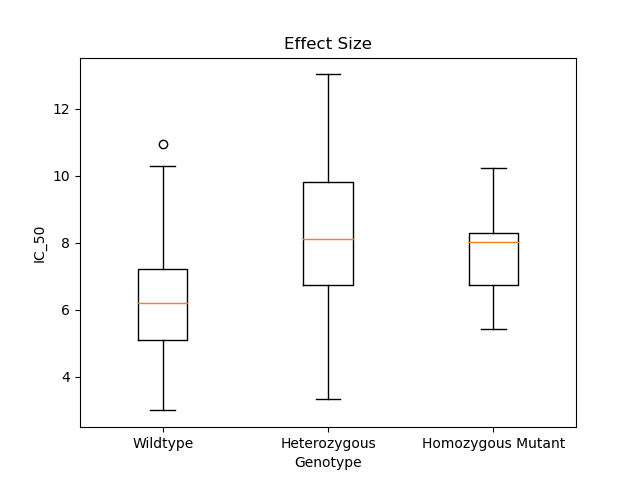
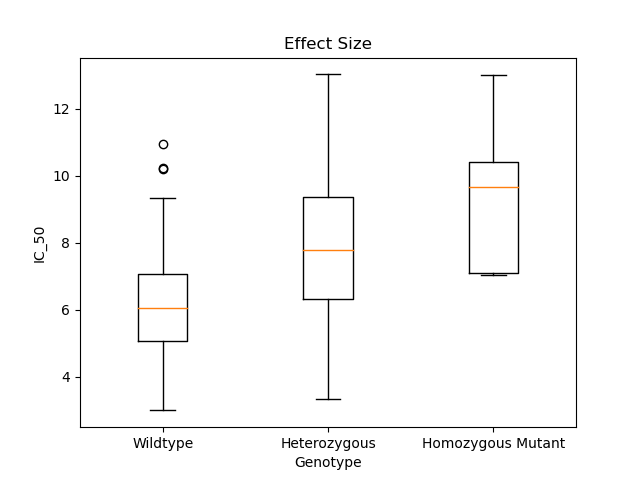
Corrections to homework

diff --git a/week6/plotting.py b/week6/plotting.py
@@ -40,13 +40,30 @@ plt.close(fig)
 cb_gwas = pd.read_csv('cb_gwas.assoc.linear', delim_whitespace=True)
 gs_gwas = pd.read_csv('gs_gwas.assoc.linear', delim_whitespace=True)
 
-
-
 cb_p = cb_gwas["P"]
 gs_p = gs_gwas["P"]
-length = len(cb_p)
-cb_10p = -(np.log10(cb_p))
-gs_10p = -(np.log10(gs_p))
+
+
+cb_p_true = []
+cb_test = cb_gwas["TEST"]
+for line in range(len(cb_test)):
+    site = cb_test[line] 
+    if site == "ADD":
+        cb_p_true.append(float(cb_p[line]))
+
+
+gs_p_true = []
+gs_test = gs_gwas["TEST"]
+for line in range(len(gs_test)):
+    site = gs_test[line] 
+    if site == "ADD":
+        gs_p_true.append(float(gs_p[line]))
+
+
+
+length = len(cb_p_true)
+cb_10p = -(np.log10(cb_p_true))
+gs_10p = -(np.log10(gs_p_true))
 
 color_cb = []
 color_gs = []
@@ -96,14 +113,16 @@ plt.show()
 fig.savefig( "manhattan.png" )
 plt.close(fig)
 
-highest_snp = (min(cb_p))
+highest_snp = (min(cb_p_true))
+#print(highest_snp)
+
 
 index = 0
-for value in cb_p:
+for value in cb_p_true:
     if value == 8.199e-12:
         print(index)
     index += 1
-#2028444
+#184404
 #print(cb_gwas.iloc[[2028444]])
 #snp of interest is rs10876043
 
@@ -131,14 +150,30 @@ snp_interest_row = genotypes.iloc[184404]
 mod_snp_row = snp_interest_row.iloc[9:]
 #print(mod_snp_row)
 
+
+phenotype_indexes = []
 genotypes = []
+index = 0
 for row in mod_snp_row:
     if row != "./.":
         genotypes.append(row)
+    else:
+        phenotype_indexes.append(index)
+    index += 1
 
+phenotype_indexes_useful = []
+for value in range(len(phenotype_indexes)):
+    number = phenotype_indexes[value]
+    mod_number = number + 1000
+    phenotype_indexes_useful.append(mod_number)
+#print(phenotype_indexes_useful)
 
 big_phenotypes = pd.read_csv("CB1908_IC50.txt", delim_whitespace=True)
-phenotypes = big_phenotypes["CB1908_IC50"]
+
+
+modified_pheno_data = big_phenotypes[~big_phenotypes["FID"].isin(phenotype_indexes_useful)]
+phenotypes = modified_pheno_data["CB1908_IC50"]
+
 
 
 
@@ -180,25 +215,25 @@ plt.close(fig)
 
 
 #finding the top loci:
-highest_snp = (min(cb_p))
+highest_snp = (min(cb_p_true))
 
 index = 0
-for value in cb_p:
+for value in cb_p_true:
     if value == 8.199e-12:
         print(index)
     index += 1
-#2028444
-#print(cb_gwas.iloc[[2028444]])
+#184404
+#print(cb_gwas.iloc[[184404]])
 #snp of interest is rs10876043
 #bp chrm 12 @ 49,190,411 (DIP2B gene)
 
 
-highest_snp_gs = (min(gs_p))
-#print(highest_snp_gs)
+highest_snp_gs = (min(gs_p_true))
+print(highest_snp_gs)
 
 
 index = 0
-for value in gs_p:
+for value in gs_p_true:
     if value == 1.43e-07:
         print(index)
     index += 1
